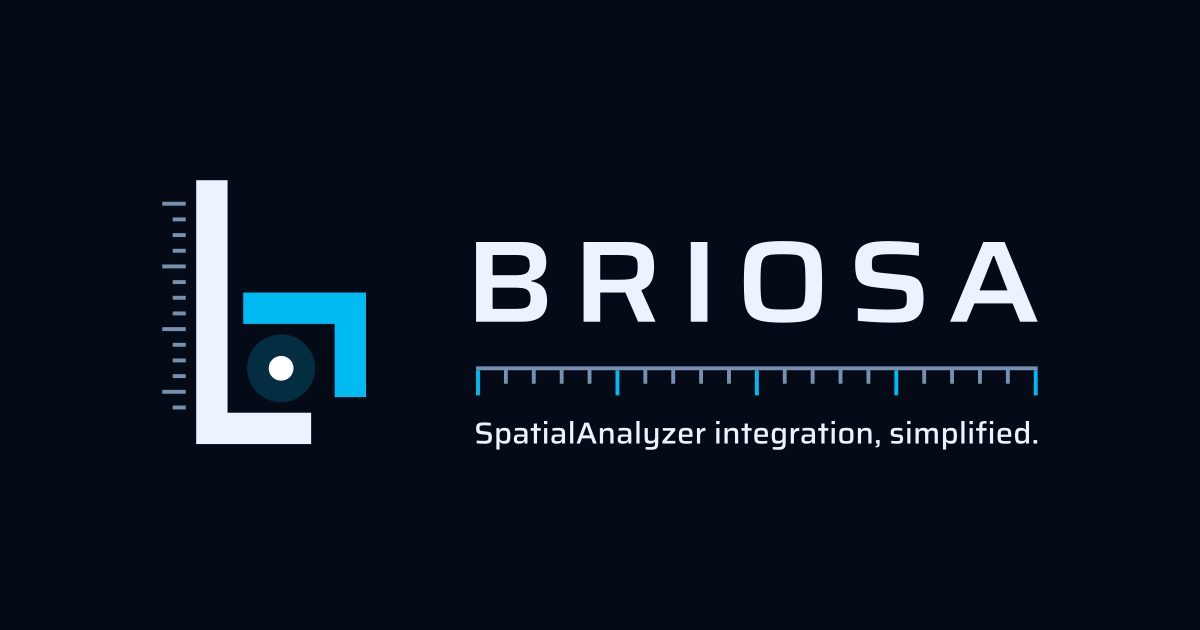
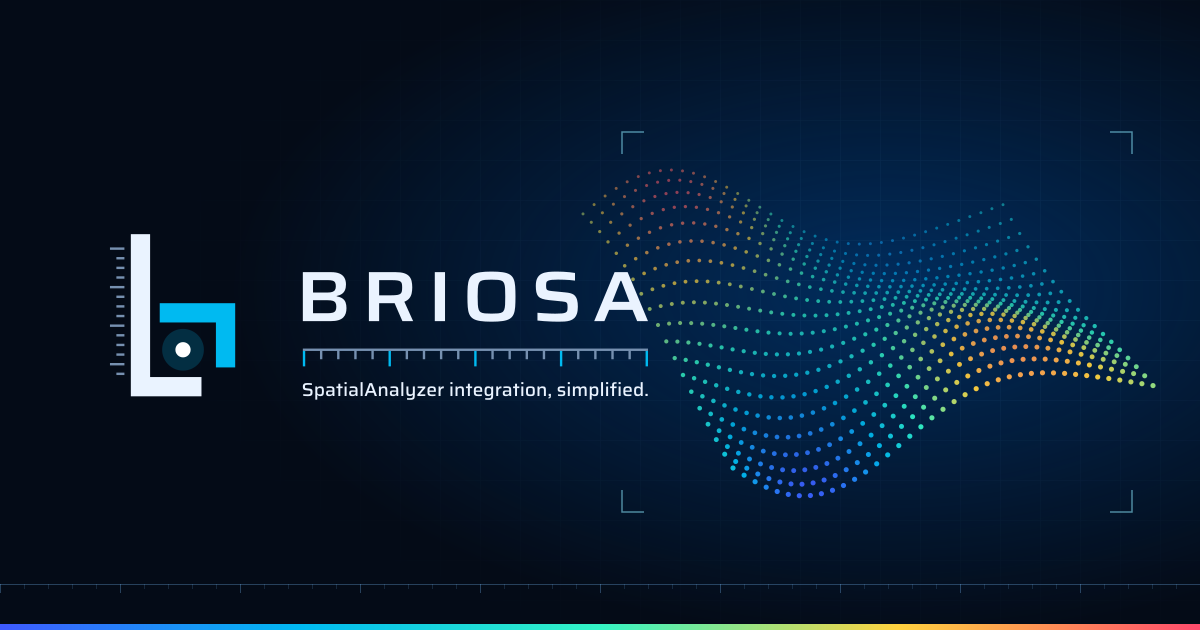
Extend Scanline type to MDX pages and redraw the social card
- Apply the Markdown typography (section rulers, HUD table headers) to MDX
  pages such as Install as well as docs.
- Redraw the social card in Scanline: the brand pack's tagline lockup, a
  scanned surface colored by the deviation map inside lock-on brackets, a
  measurement grid, a ruler, and the spectral bar. It stays 1200 x 630 and
  draws geometry only, so rendering needs no fonts.

Refs #107

diff --git a/src/css/scanline/base.css b/src/css/scanline/base.css
@@ -56,7 +56,7 @@ hr {
 }
 
 /* ---------- Markdown typography ---------- */
-.markdown {
+:is(.markdown, .mdx-page article) {
   --ifm-h1-font-size: clamp(2.05rem, 1.45rem + 1.9vw, 2.9rem);
   --ifm-h2-font-size: 1.62rem;
   --ifm-h3-font-size: 1.2rem;
@@ -65,13 +65,13 @@ hr {
   line-height: 1.75;
 }
 
-.markdown h1 {
+:is(.markdown, .mdx-page article) h1 {
   font-size: var(--ifm-h1-font-size);
   line-height: 1.07;
   letter-spacing: -0.014em;
 }
 
-.markdown h2 {
+:is(.markdown, .mdx-page article) h2 {
   position: relative;
   margin-top: 2.7em;
   padding-top: 1.05em;
@@ -80,7 +80,7 @@ hr {
 }
 
 /* Each section opens on a ruler: a hairline, minor ticks, and a laser origin. */
-.markdown h2::before {
+:is(.markdown, .mdx-page article) h2::before {
   content: '';
   position: absolute;
   inset: 0 0 auto 0;
@@ -92,13 +92,13 @@ hr {
     repeating-linear-gradient(90deg, var(--sl-line-2) 0 1px, transparent 1px 48px) top / 100% 4px no-repeat;
 }
 
-.markdown h3 {
+:is(.markdown, .mdx-page article) h3 {
   margin-top: 2em;
   line-height: 1.3;
 }
 
-.markdown h2 > code,
-.markdown h3 > code {
+:is(.markdown, .mdx-page article) h2 > code,
+:is(.markdown, .mdx-page article) h3 > code {
   border: 0;
   background: none;
   padding: 0;
@@ -106,25 +106,25 @@ hr {
   color: inherit;
 }
 
-.markdown strong {
+:is(.markdown, .mdx-page article) strong {
   color: var(--sl-ink);
   font-weight: 600;
 }
 
-.markdown a:not([class]) {
+:is(.markdown, .mdx-page article) a:not([class]) {
   text-decoration: underline;
   text-decoration-color: color-mix(in srgb, var(--sl-laser) 45%, transparent);
 }
 
-.markdown a:not([class]):hover {
+:is(.markdown, .mdx-page article) a:not([class]):hover {
   text-decoration-color: currentColor;
 }
 
-.markdown li::marker {
+:is(.markdown, .mdx-page article) li::marker {
   color: var(--sl-ink-3);
 }
 
-.markdown blockquote {
+:is(.markdown, .mdx-page article) blockquote {
   border-left: 1px solid var(--sl-line-3);
   color: var(--sl-ink-2);
   padding: 0.2em 0 0.2em 1.1em;
@@ -140,7 +140,7 @@ hr {
 }
 
 /* ---------- Tables: hairline grid, HUD headers ---------- */
-.markdown table {
+:is(.markdown, .mdx-page article) table {
   display: block;
   width: 100%;
   max-width: 100%;
@@ -154,12 +154,12 @@ hr {
   line-height: 1.5;
 }
 
-.markdown table thead tr {
+:is(.markdown, .mdx-page article) table thead tr {
   border: 0;
   background: var(--sl-panel-2);
 }
 
-.markdown table th {
+:is(.markdown, .mdx-page article) table th {
   border: 0;
   border-bottom: 1px solid var(--sl-line-2);
   color: var(--sl-ink-3);
@@ -172,28 +172,28 @@ hr {
   white-space: nowrap;
 }
 
-.markdown table td {
+:is(.markdown, .mdx-page article) table td {
   border: 0;
   border-top: 1px solid var(--sl-line);
   vertical-align: top;
 }
 
-.markdown table tbody tr {
+:is(.markdown, .mdx-page article) table tbody tr {
   border: 0;
   background: transparent;
   transition: background-color 0.15s;
 }
 
-.markdown table tbody tr:first-child td {
+:is(.markdown, .mdx-page article) table tbody tr:first-child td {
   border-top: 0;
 }
 
-.markdown table tbody tr:hover {
+:is(.markdown, .mdx-page article) table tbody tr:hover {
   background: var(--sl-hover);
 }
 
-.markdown table th,
-.markdown table td {
+:is(.markdown, .mdx-page article) table th,
+:is(.markdown, .mdx-page article) table td {
   padding: 0.7rem 0.9rem;
 }
 
